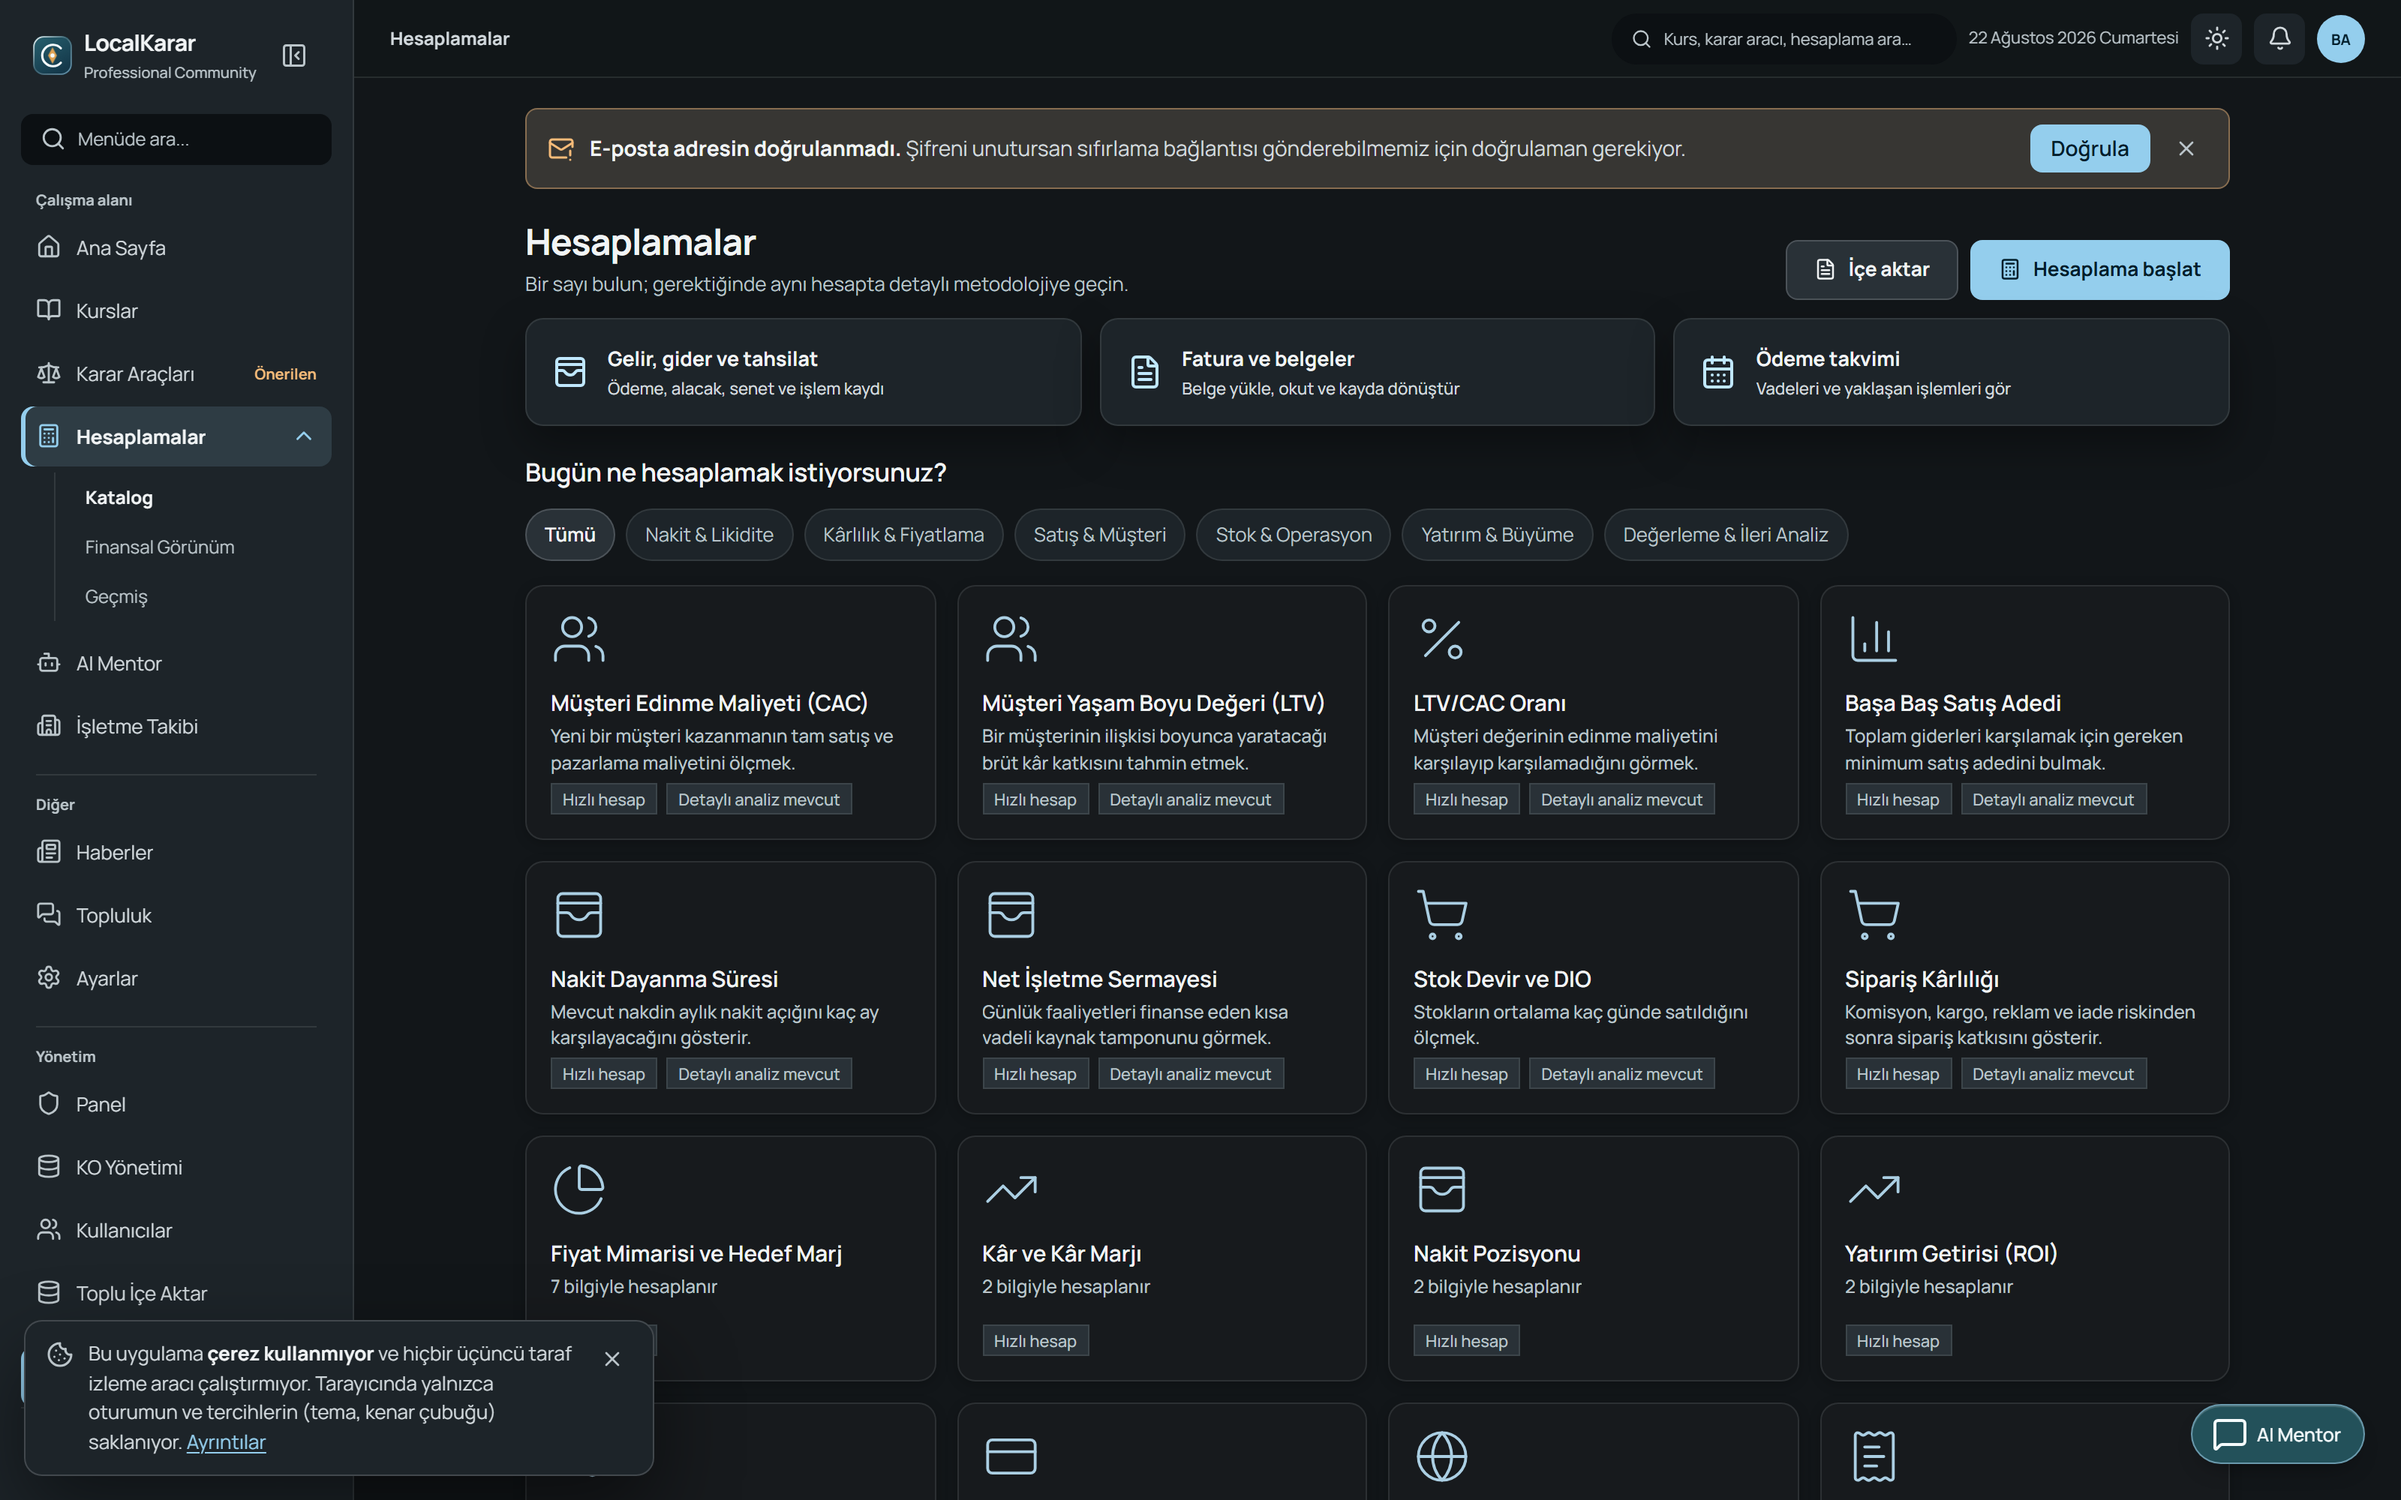
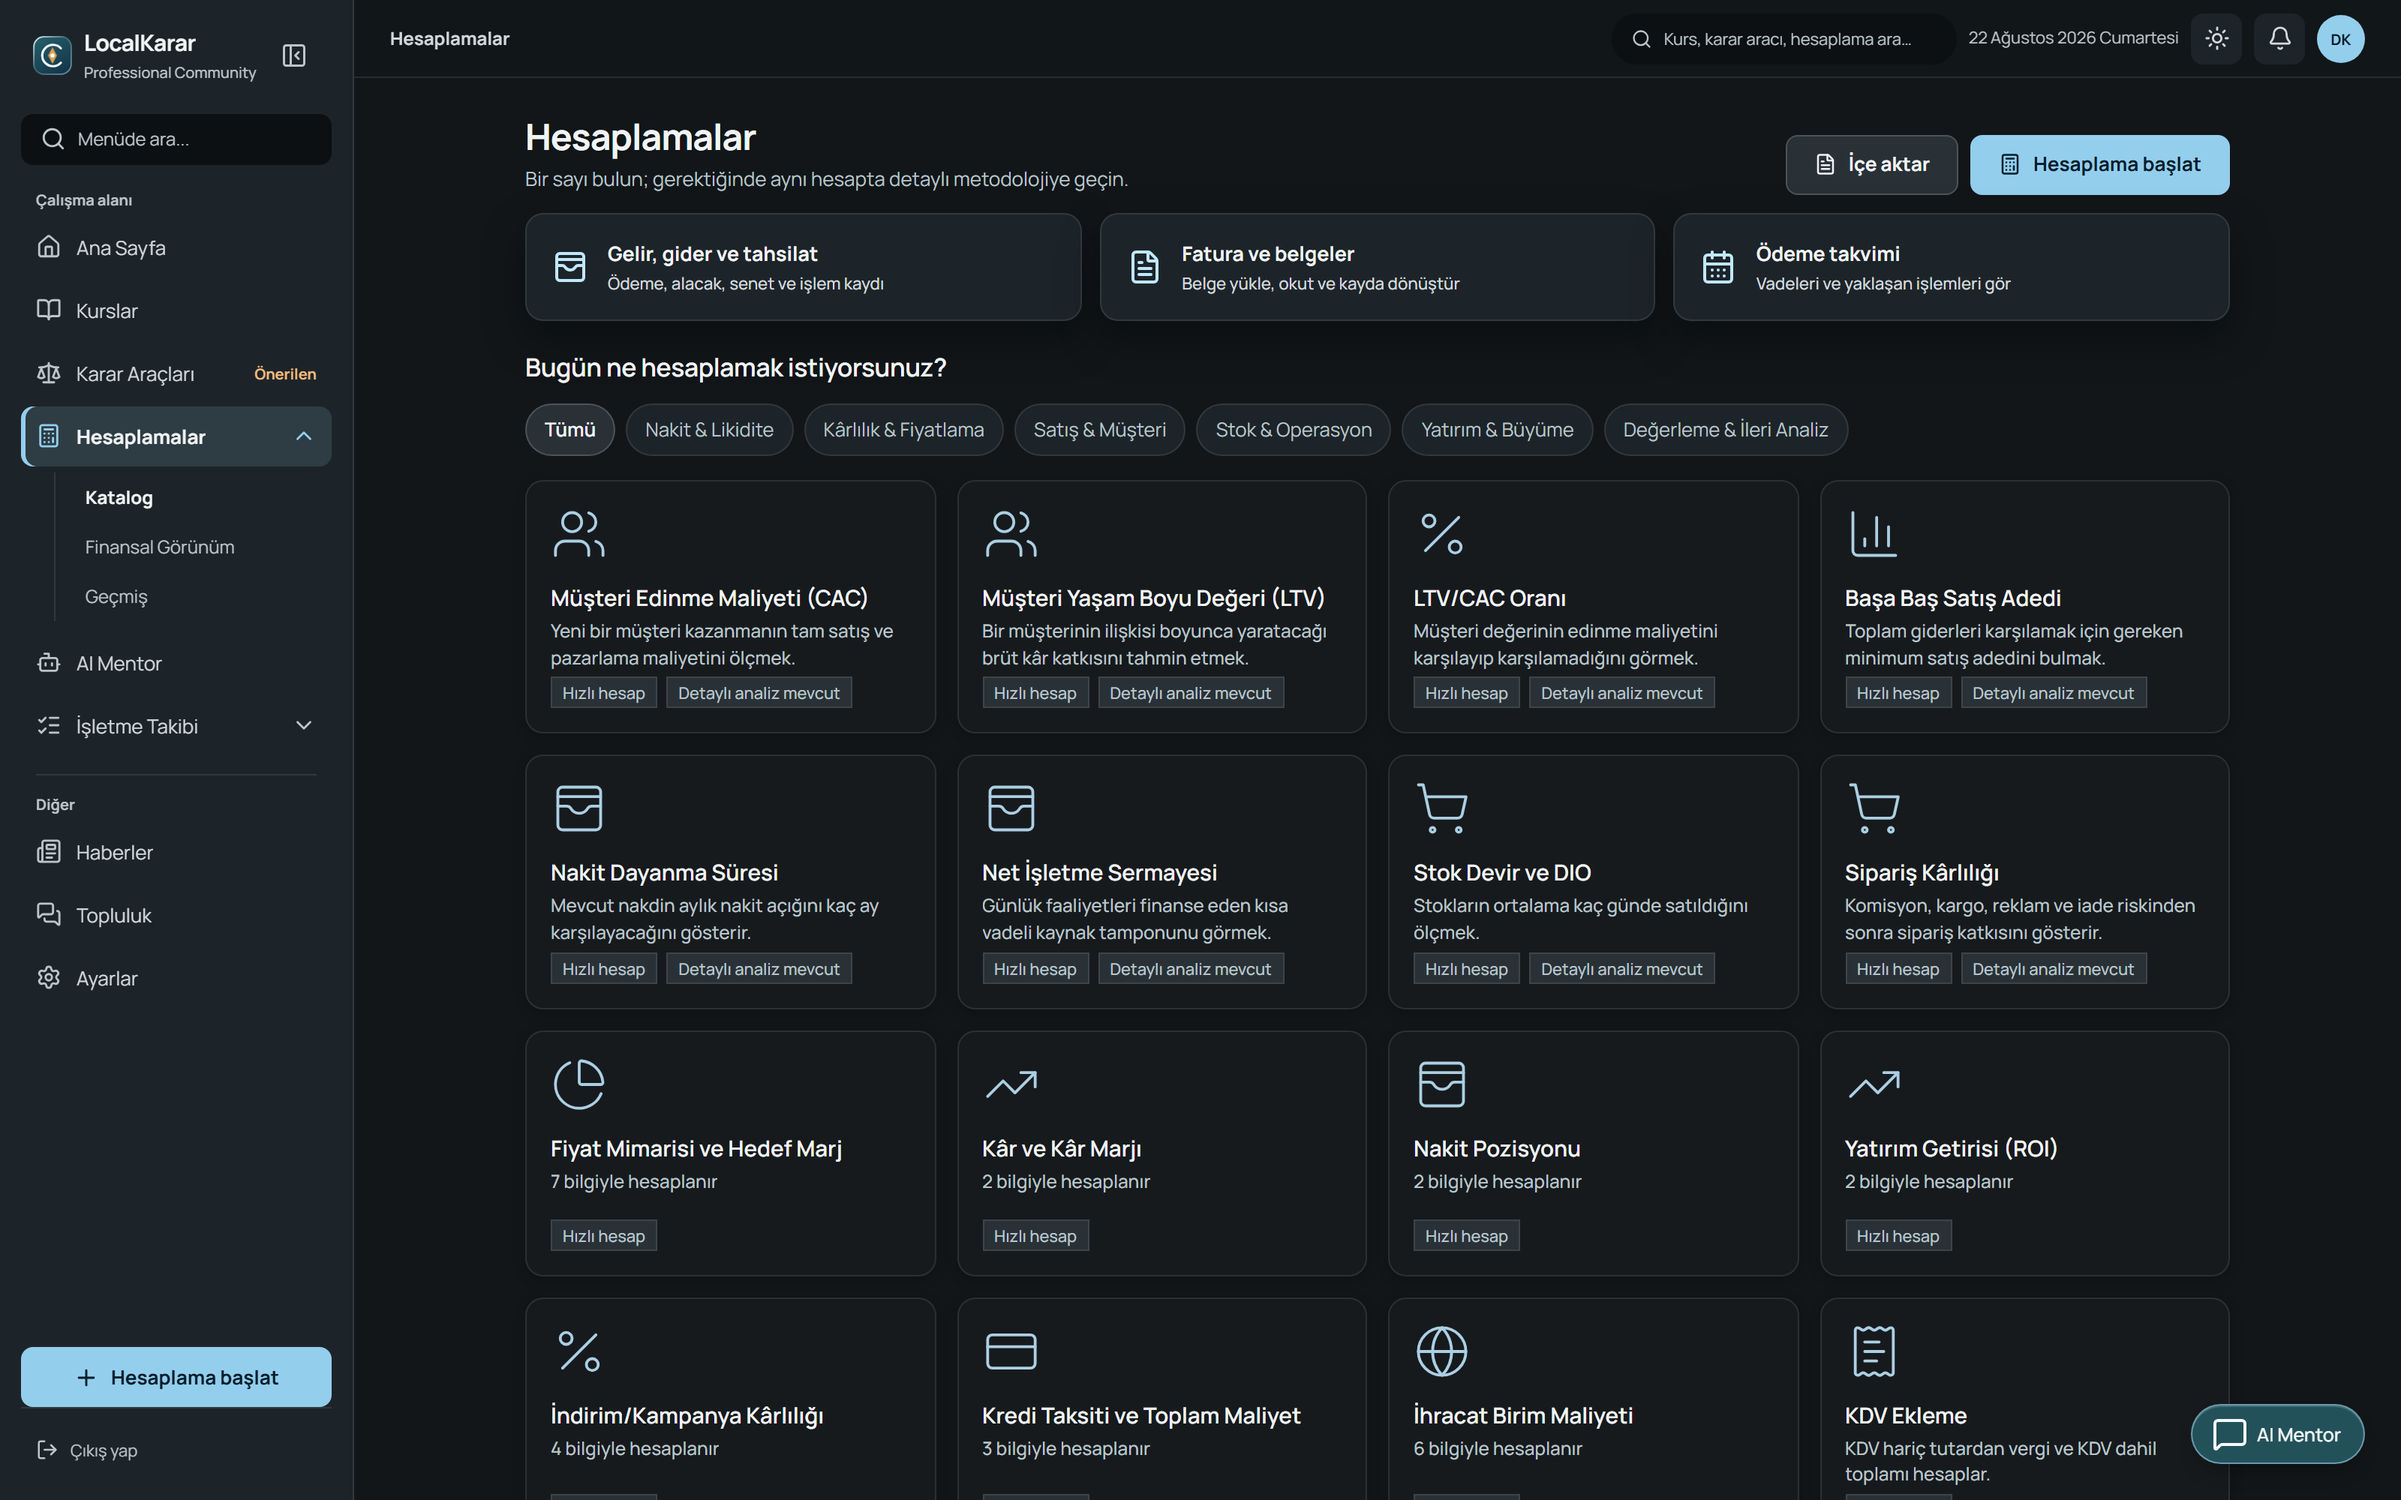
fix(hakkinda): ekran goruntuleri yeniden cekildi -- yonetici menusu gorunuyordu
Urun sahibi fark etti: tanitim sayfasindaki goruntulerde sol menude
YONETIM bolumu duruyordu -- Panel, KO Yonetimi, Kullanicilar, Toplu Ice
Aktar, Denetim Kayitlari. Goruntuler yonetici hesabindan alinmis.

Ic araclarin adlarini herkese acik bir vitrin sayfasinda gostermek
yanlis. Yaninda iki sey daha kadraja giriyordu:

  - "E-posta adresin dogrulanmadi" HATA seridi
  - Sol altta cerez bildirimi

Uc kusur da tanitim sayfasinda urunu oldugundan kotu gosteriyordu.

YENIDEN CEKIM

Ogrenci rolunde, e-postasi dogrulanmis bir hesapla, bildirim onceden
kapatilmis olarak cekildi. Ayni olcu korundu: 1600x1000 gorunum, 2x
piksel yogunlugu, 3200x2000 cikti -- kart oranlari degismedi.

Iki ekran BOS durumda cikiyordu ve oyle birakilmadi:

  - Isletme Takibi: once "/app/workspaces" cekiliyordu, o yalniz
    isletme kartini gosteren liste sayfasi. Genel bakis alt sayfasina
    cevrildi ve ornek bir isletme + alti kayit olusturuldu; ekran artik
    acik yukumluluk sayisini, takvimi ve son hareketleri gosteriyor.
  - Topluluk: kullanici gonderisi yoktu. Iki gercekci deneyim gonderisi
    eklendi; "Gundemde" ve "Katki saglayanlar" panelleri de doldu.

AI MENTOR BILEREK BOS DURUMDA: uydurma bir sohbet koymak, urunun
uretmedigi bir cevabi vitrine koymak olurdu. Bos hal zaten hizli
baslangic onerilerini, hafiza panelini ve giris kutusunu gosteriyor.

Yol ustunde duzeltilen iki ayrinti: gonderi metinlerinde Turkce
karakterler eksikti (kabuk kacisi yuzunden oyle yazilmisti) ve yazar
[…]

diff --git a/frontend/src/components/about/EkranCizimi.jsx b/frontend/src/components/about/EkranCizimi.jsx
@@ -10,12 +10,12 @@ import styles from './EkranCizimi.module.css'
  * alt metin kullanılır. Bölümün anlamını başlık, açıklama ve maddeler taşır.
  */
 const EKRANLAR = {
-  'karar-araclari': { kaynak: '/about-screens/karar-araclari.png?v=3', etiket: 'Karar Araçları' },
-  'isletme-takibi': { kaynak: '/about-screens/isletme-takibi.png?v=3', etiket: 'İşletme Takibi' },
-  'ai-mentor': { kaynak: '/about-screens/ai-mentor.png?v=3', etiket: 'AI Mentor' },
-  hesaplamalar: { kaynak: '/about-screens/hesaplamalar.png?v=3', etiket: 'Hesaplamalar' },
-  kurslar: { kaynak: '/about-screens/kurslar.png?v=3', etiket: 'Kurslar' },
-  topluluk: { kaynak: '/about-screens/topluluk.png?v=3', etiket: 'Topluluk' }
+  'karar-araclari': { kaynak: '/about-screens/karar-araclari.png?v=4', etiket: 'Karar Araçları' },
+  'isletme-takibi': { kaynak: '/about-screens/isletme-takibi.png?v=4', etiket: 'İşletme Takibi' },
+  'ai-mentor': { kaynak: '/about-screens/ai-mentor.png?v=4', etiket: 'AI Mentor' },
+  hesaplamalar: { kaynak: '/about-screens/hesaplamalar.png?v=4', etiket: 'Hesaplamalar' },
+  kurslar: { kaynak: '/about-screens/kurslar.png?v=4', etiket: 'Kurslar' },
+  topluluk: { kaynak: '/about-screens/topluluk.png?v=4', etiket: 'Topluluk' }
 }
 
 export default function EkranCizimi({ tur }) {
